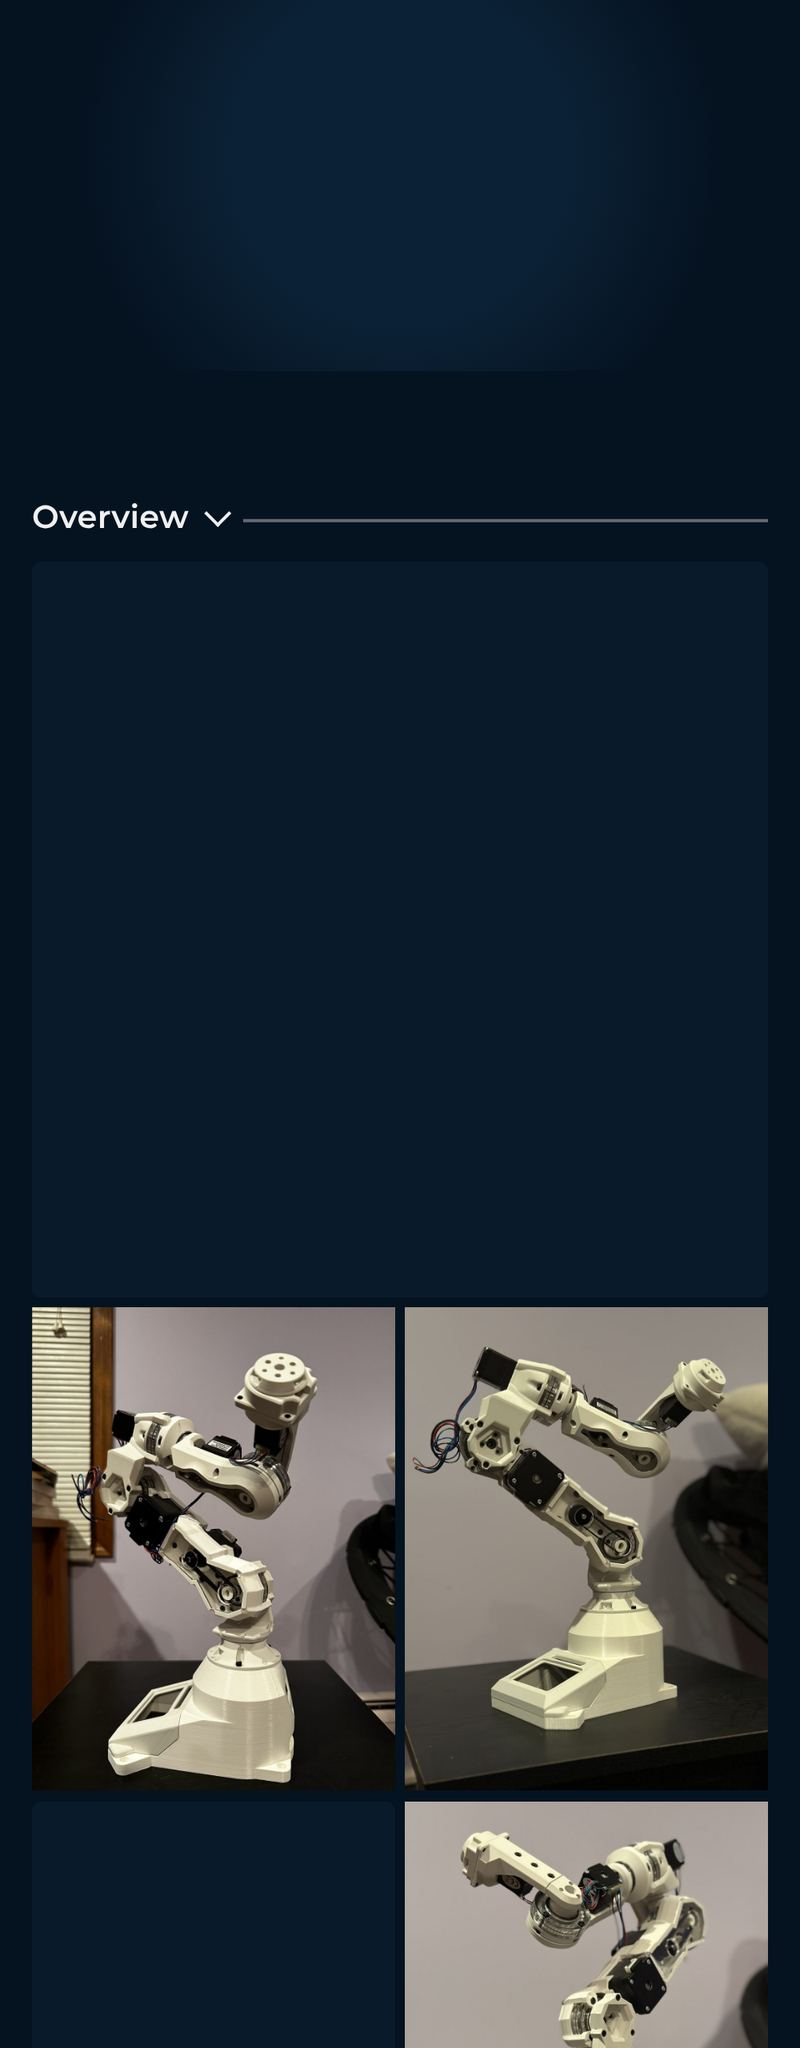
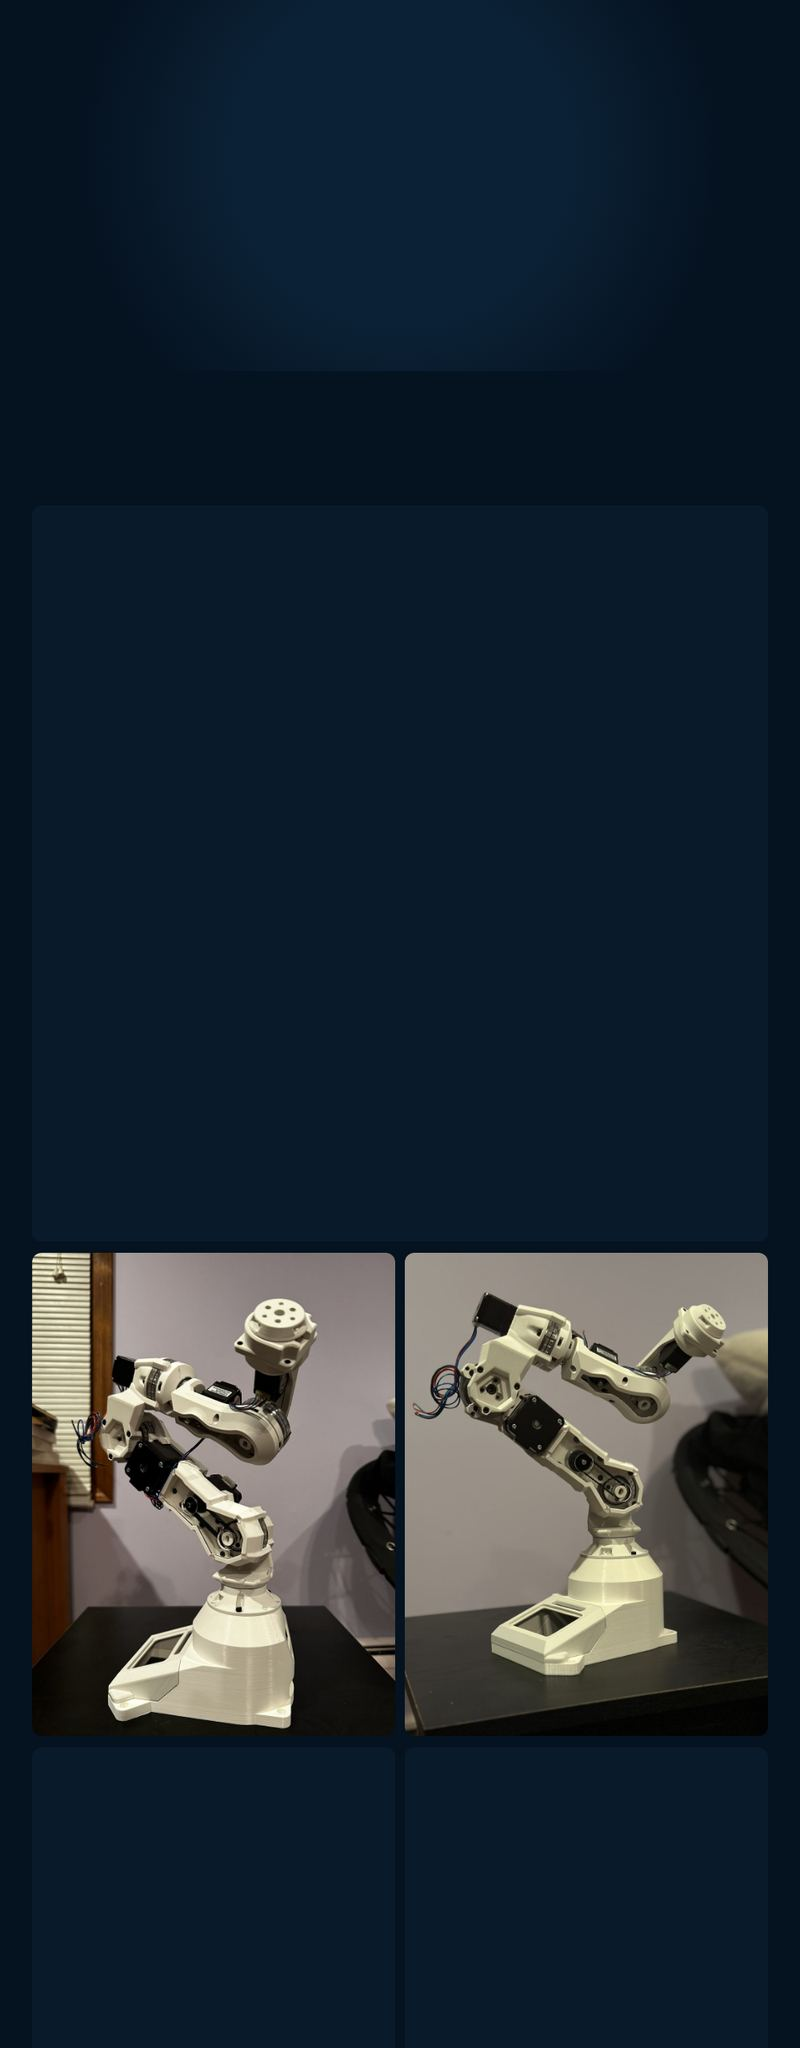
Regenerate home previews with versioned image URLs; phone layout for platform sketches
Claude-Session: https://claude.ai/code/session_0151QGALfRcY33Bom8A3MCoz

Changed region(s): [[0.0312, 0.5938, 0.9688, 1.0], [0.0625, 0.25, 0.2188, 0.2812]]

diff --git a/pages/project.css b/pages/project.css
@@ -308,8 +308,10 @@
 .pf-table td:nth-child(2) { color: var(--light-primary); }
 
 @media (max-width: 1000px) {
-  .pf-sim-row { grid-template-columns: minmax(0, 1fr) minmax(0, 1fr); gap: 0.8rem; }
-  .pf-sim-row > div { grid-column: 1 / -1; }
+  .pf-sim-row { grid-template-columns: minmax(0, 1fr); gap: 1rem; justify-items: center; }
+  .pf-sim-row > div { justify-self: stretch; }
+  .pf-sim-row .pf-fig.small { width: 100%; max-width: 330px; }
+  .pf-fig { margin: 0.2rem -0.6rem 1rem -0.6rem; }
   .pf-table { font-size: 0.72rem; }
   .pf-table th, .pf-table td { padding: 0.4rem 0.5rem 0.4rem 0; }
   .pf-table tbody th { white-space: normal; }

diff --git a/tools/make-previews.py b/tools/make-previews.py
@@ -14,7 +14,7 @@ Run from the repo root after changing the top of a project page:
 Needs Playwright (Python) and Chromium, plus ffmpeg for video stills.
 Writes assets/preview/*.jpg and assets/preview/previews.json.
 """
-import json, os, re, subprocess, sys, threading, functools, http.server, socketserver
+import json, os, re, subprocess, sys, threading, functools, http.server, socketserver, hashlib
 from urllib.parse import urljoin, urlparse
 from playwright.sync_api import sync_playwright
 from PIL import Image
@@ -52,6 +52,11 @@ def pages():
 def site_path(url):
     """absolute localhost URL → path relative to the site root"""
     return urlparse(url).path.lstrip('/')
+
+def versioned(rel):
+    """rel?v=<content hash>, so phones never keep showing an old picture"""
+    with open(os.path.join(ROOT, rel), 'rb') as f:
+        return rel + '?v=' + hashlib.md5(f.read()).hexdigest()[:8]
 
 def still_for(video_path):
     """first frame of a video, for videos without a poster"""
@@ -189,8 +194,8 @@ def main():
                 sheet.save(img, quality=78, optimize=True, progressive=True)
                 for m in media:
                     m['src'] = site_path(m['src'])
-                    m['poster'] = site_path(m['poster']) if m['poster'] else still_for(m['src'])
-                entry[str(v['w'])] = {'img': os.path.relpath(img, ROOT), 'w': v['w'], 'h': h, 'media': media}
+                    m['poster'] = versioned(site_path(m['poster']) if m['poster'] else still_for(m['src']))
+                entry[str(v['w'])] = {'img': versioned(os.path.relpath(img, ROOT)), 'w': v['w'], 'h': h, 'media': media}
                 ctx.close()
                 print(name, v['w'], h, len(media), 'videos')
             manifest[href] = entry
